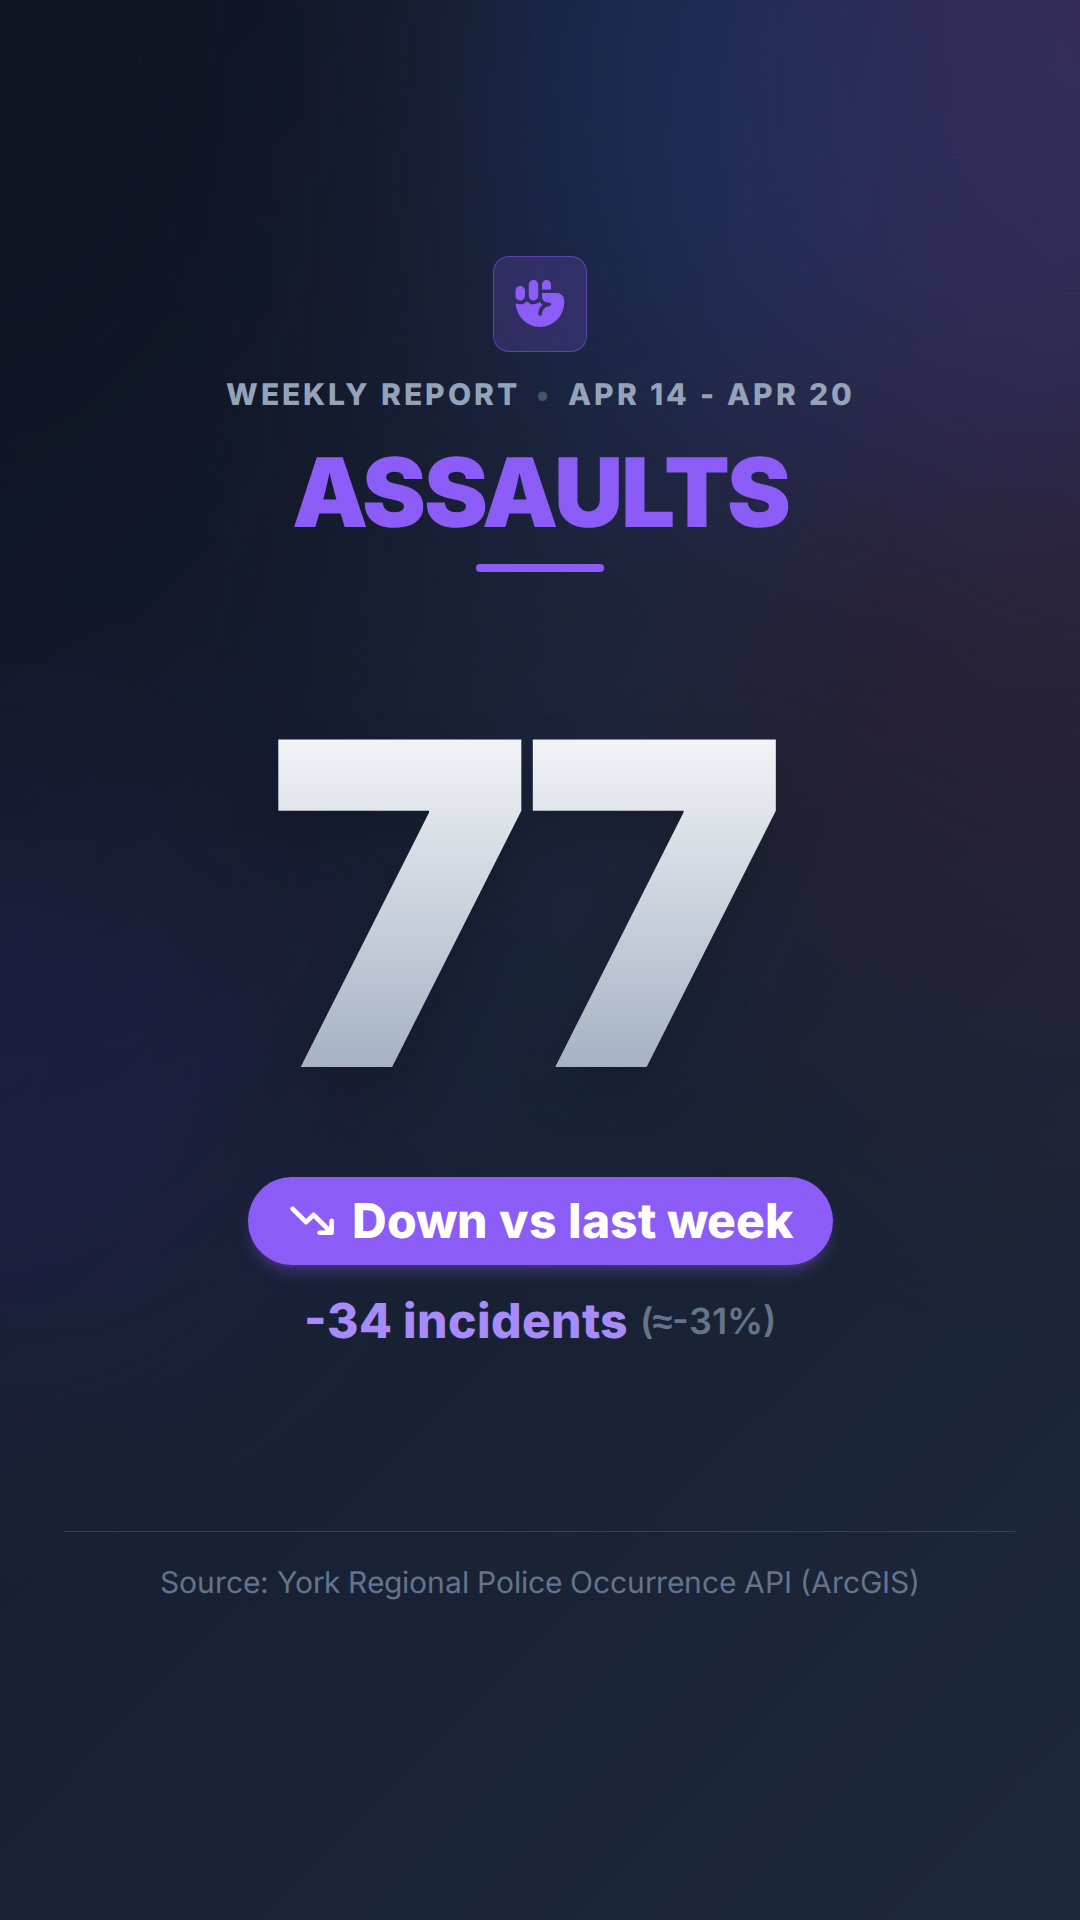
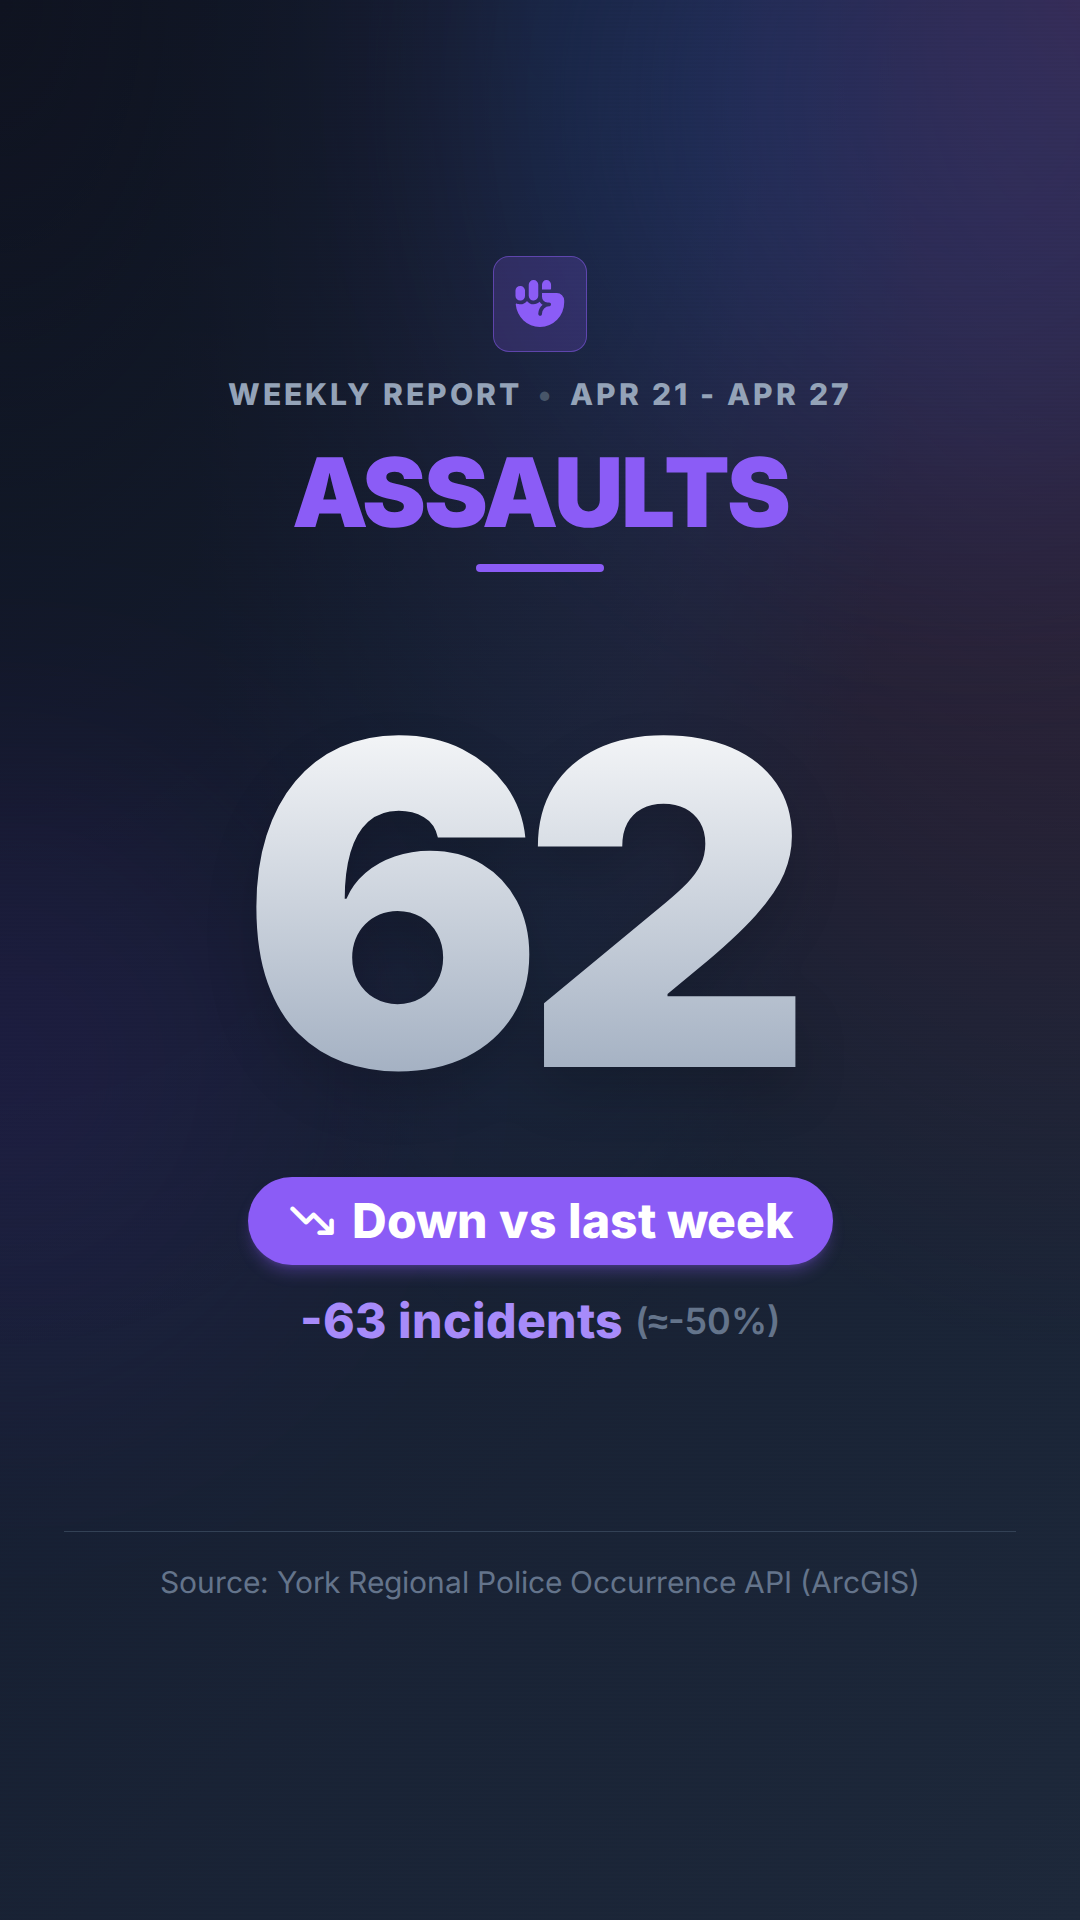
Update stats and screenshots 2026-04-27

diff --git a/templates/auto-theft.html b/templates/auto-theft.html
@@ -86,7 +86,7 @@
 <div class="flex items-center gap-4">
 <span class="text-3xl font-bold tracking-widest uppercase text-slate-400" id="report-label">Weekly Report</span>
 <span class="text-3xl font-bold tracking-widest uppercase text-slate-600">•</span>
-<span class="text-3xl font-bold tracking-widest uppercase text-slate-400" id="week-range">Apr 14 - Apr 20</span>
+<span class="text-3xl font-bold tracking-widest uppercase text-slate-400" id="week-range">Apr 21 - Apr 27</span>
 </div>
 </div>
 <!-- Big Title -->
@@ -102,7 +102,7 @@
 <!-- Number -->
 <div class="text-[450px] leading-none font-black tracking-tighter bg-clip-text text-transparent bg-gradient-to-b from-white to-slate-400 drop-shadow-2xl">
 <!-- Place this where the big number should show -->
-<span class="text-[450px] leading-none font-black tracking-tighter bg-clip-text text-transparent bg-gradient-to-b from-white to-slate-400 drop-shadow-2xl pr-12 pb-4" id="auto-theft-count">14</span>
+<span class="text-[450px] leading-none font-black tracking-tighter bg-clip-text text-transparent bg-gradient-to-b from-white to-slate-400 drop-shadow-2xl pr-12 pb-4" id="auto-theft-count">9</span>
 </div>
 <!-- Trend Info (Moved Inside) -->
 <div class="w-full flex flex-col items-center gap-8 mt-8">
@@ -113,8 +113,8 @@
 </div>
 <!-- Small Line Info -->
 <div class="flex items-center gap-3">
-<span class="text-5xl font-bold text-red-400" id="delta-incidents">-3 incidents</span>
-<span class="text-4xl text-slate-500 font-semibold" id="delta-percent">(≈-18%)</span>
+<span class="text-5xl font-bold text-red-400" id="delta-incidents">-11 incidents</span>
+<span class="text-4xl text-slate-500 font-semibold" id="delta-percent">(≈-55%)</span>
 </div>
 </div>
 </div>

diff --git a/templates/assaults.html b/templates/assaults.html
@@ -87,7 +87,7 @@
 <div class="flex items-center gap-4">
 <span class="text-3xl font-bold tracking-widest uppercase text-slate-400">Weekly Report</span>
 <span class="text-3xl font-bold tracking-widest uppercase text-slate-600">•</span>
-<span class="text-3xl font-bold tracking-widest uppercase text-slate-400" id="week-range">Apr 14 - Apr 20</span>
+<span class="text-3xl font-bold tracking-widest uppercase text-slate-400" id="week-range">Apr 21 - Apr 27</span>
 </div>
 </div>
 <!-- Big Title -->
@@ -102,7 +102,7 @@
 <div class="p-20 flex flex-col items-center relative animate-pulse-slow min-w-[600px]">
 <!-- Number -->
 <!-- Added pr-12 (padding-right) and pb-4 to prevent clipping of the large glyph -->
-<div class="text-[450px] leading-none font-black tracking-tighter bg-clip-text text-transparent bg-gradient-to-b from-white to-slate-400 drop-shadow-2xl pr-12 pb-4" id="assaults-count">77</div>
+<div class="text-[450px] leading-none font-black tracking-tighter bg-clip-text text-transparent bg-gradient-to-b from-white to-slate-400 drop-shadow-2xl pr-12 pb-4" id="assaults-count">62</div>
 <!-- Trend Info (Moved Inside) -->
 <div class="w-full flex flex-col items-center gap-8 mt-8">
 <!-- Trend Chip (Violet Theme) -->
@@ -112,8 +112,8 @@
 </div>
 <!-- Small Line Info -->
 <div class="flex items-center gap-3">
-<span class="text-5xl font-bold text-violet-400" id="delta-incidents">-34 incidents</span>
-<span class="text-4xl text-slate-500 font-semibold" id="delta-percent">(≈-31%)</span>
+<span class="text-5xl font-bold text-violet-400" id="delta-incidents">-63 incidents</span>
+<span class="text-4xl text-slate-500 font-semibold" id="delta-percent">(≈-50%)</span>
 </div>
 </div>
 </div>

diff --git a/templates/break-enter.html b/templates/break-enter.html
@@ -87,7 +87,7 @@
 <div class="flex items-center gap-4">
 <span class="text-3xl font-bold tracking-widest uppercase text-slate-400" id="report-label">Weekly Report</span>
 <span class="text-3xl font-bold tracking-widest uppercase text-slate-600">•</span>
-<span class="text-3xl font-bold tracking-widest uppercase text-slate-400" id="week-range">Apr 14 - Apr 20</span>
+<span class="text-3xl font-bold tracking-widest uppercase text-slate-400" id="week-range">Apr 21 - Apr 27</span>
 </div>
 </div>
 <!-- Big Title -->
@@ -102,7 +102,7 @@
 <div class="p-20 flex flex-col items-center relative animate-pulse-slow min-w-[600px]">
 <!-- Number -->
 <div class="text-[450px] leading-none font-black tracking-tighter bg-clip-text text-transparent bg-gradient-to-b from-white to-slate-400 drop-shadow-2xl">
-<span id="break-enter-count">23</span>
+<span id="break-enter-count">11</span>
 </div>
 <!-- Trend Info (Moved Inside) -->
 <div class="w-full flex flex-col items-center gap-8 mt-8">
@@ -113,8 +113,8 @@
 </div>
 <!-- Small Line Info -->
 <div class="flex items-center gap-3">
-<span class="text-5xl font-bold text-orange-400" id="delta-incidents">-7 incidents</span>
-<span class="text-4xl text-slate-500 font-semibold" id="delta-percent">(≈-23%)</span>
+<span class="text-5xl font-bold text-orange-400" id="delta-incidents">-20 incidents</span>
+<span class="text-4xl text-slate-500 font-semibold" id="delta-percent">(≈-65%)</span>
 </div>
 </div>
 </div>
